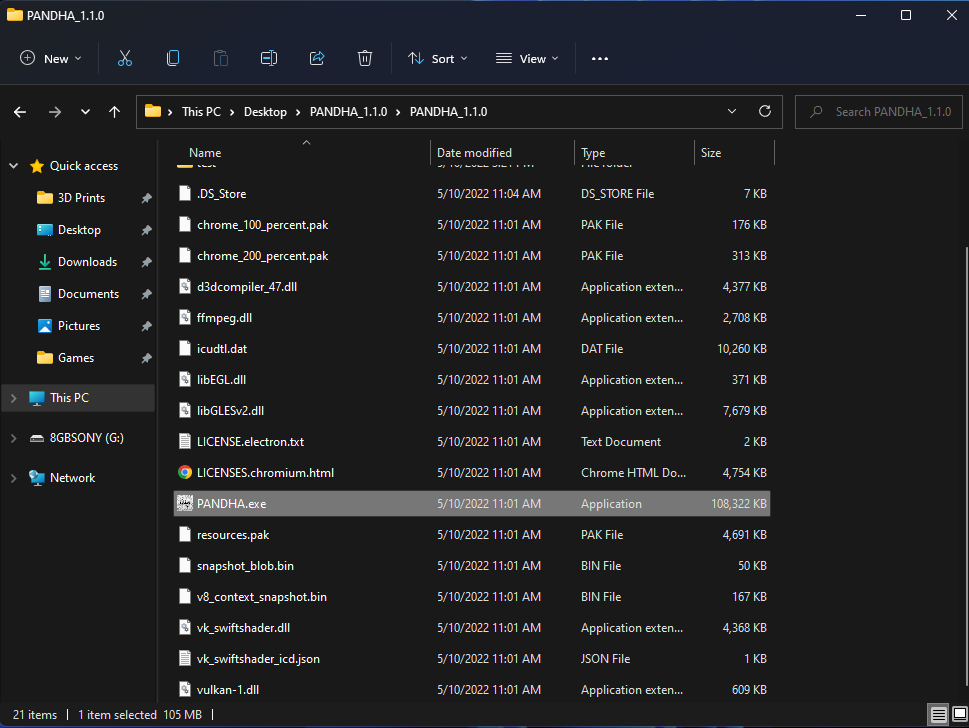
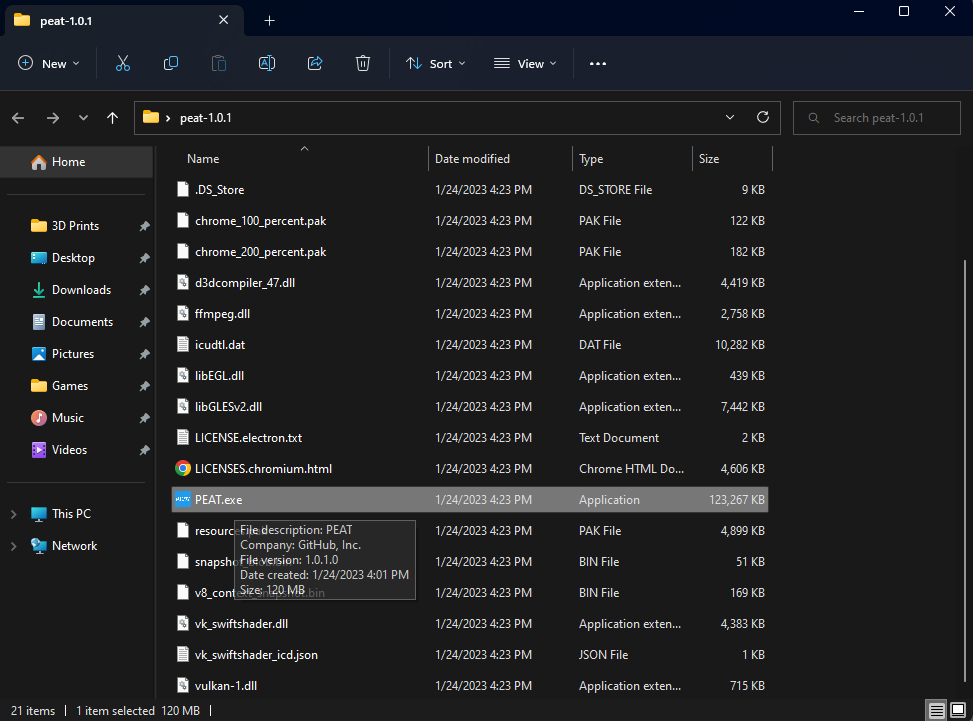
windows installation instruction update

diff --git a/README.md b/README.md
@@ -50,16 +50,11 @@ Version 1.0.1
   ---------------------------------------------------------------------
 
 # 1 Installation
-
-## 1.1 Installation Mac OSX
-
-1\. [https://github.com/USEPA/peat/releases/download/v1.0.1-mac-arm/PEAT-1.0.1-arm64.dmg](https://github.com/USEPA/peat/releases/download/v1.0.1-mac-arm/PEAT-1.0.1-arm64.dmg)
-
-## 1.2 Installation Windows
+## 1.1 Installation Windows
 
 1\. Download latest version from (PEAT_1.1.0)
 
-[https://usepa.sharepoint.com/sites/DOEORNLCPAD/Shared%20Documents/General/Release%20Candidate/PANDHA_1.1.0.zip](https://usepa.sharepoint.com/sites/DOEORNLCPAD/Shared%20Documents/General/Release%20Candidate/PANDHA_RC1.zip)
+[https://github.com/USEPA/peat/releases/download/v1.0.1-win/peat-1.0.1.zip](https://github.com/USEPA/peat/releases/download/v1.0.1-win/peat-1.0.1.zip)
 
 2\. Right click PANDHA_1.0.0.zip' and select 'Extract All'
 
